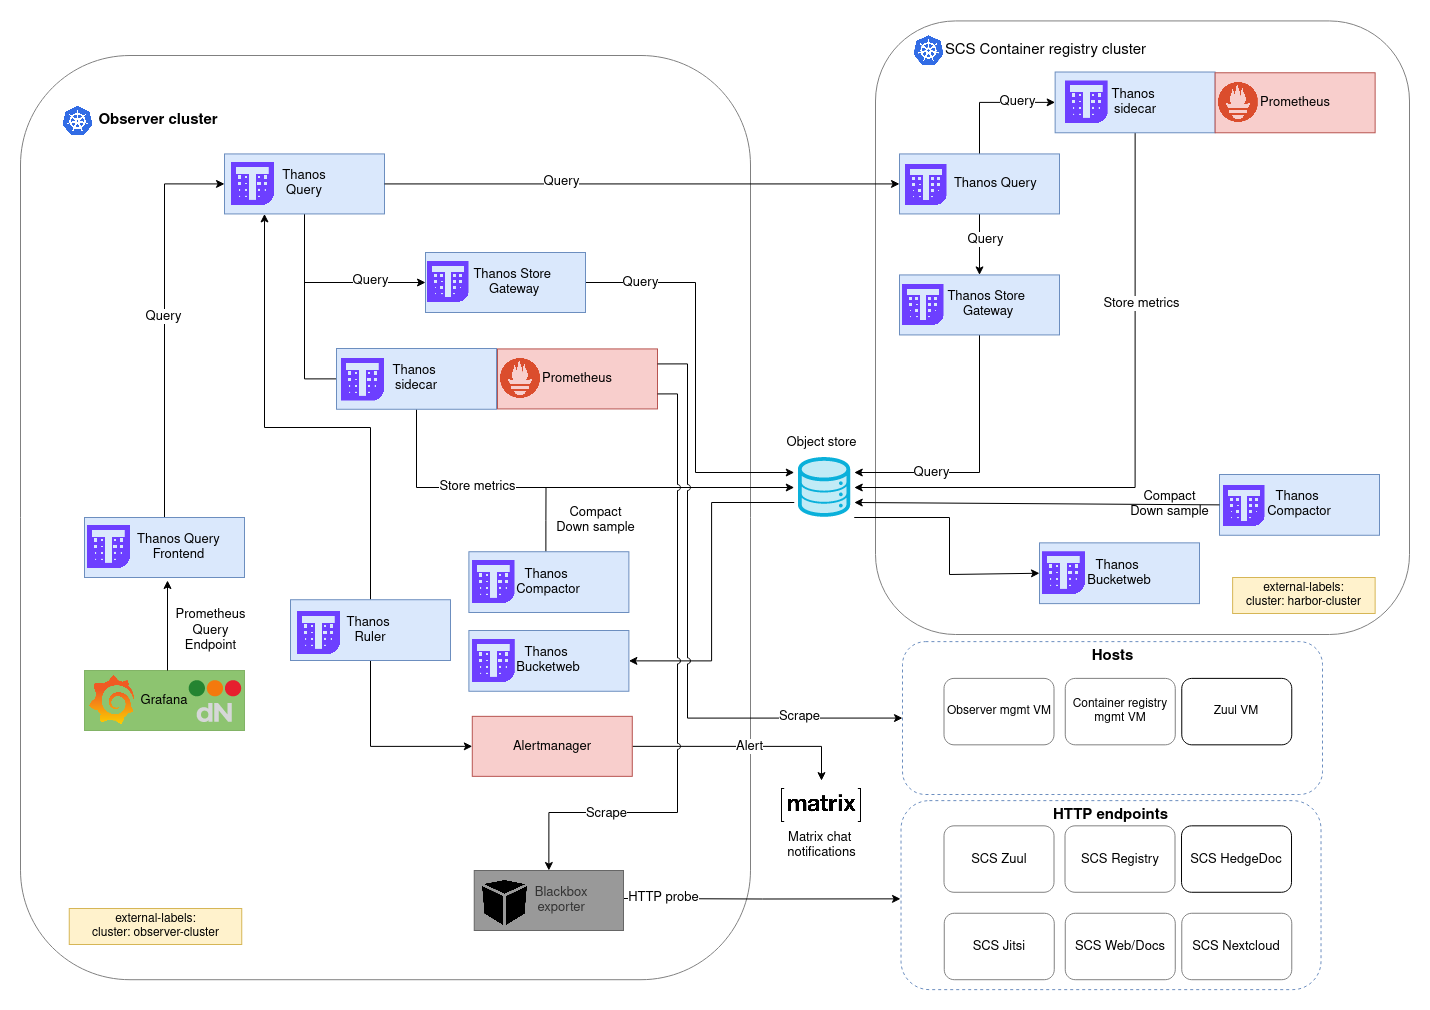
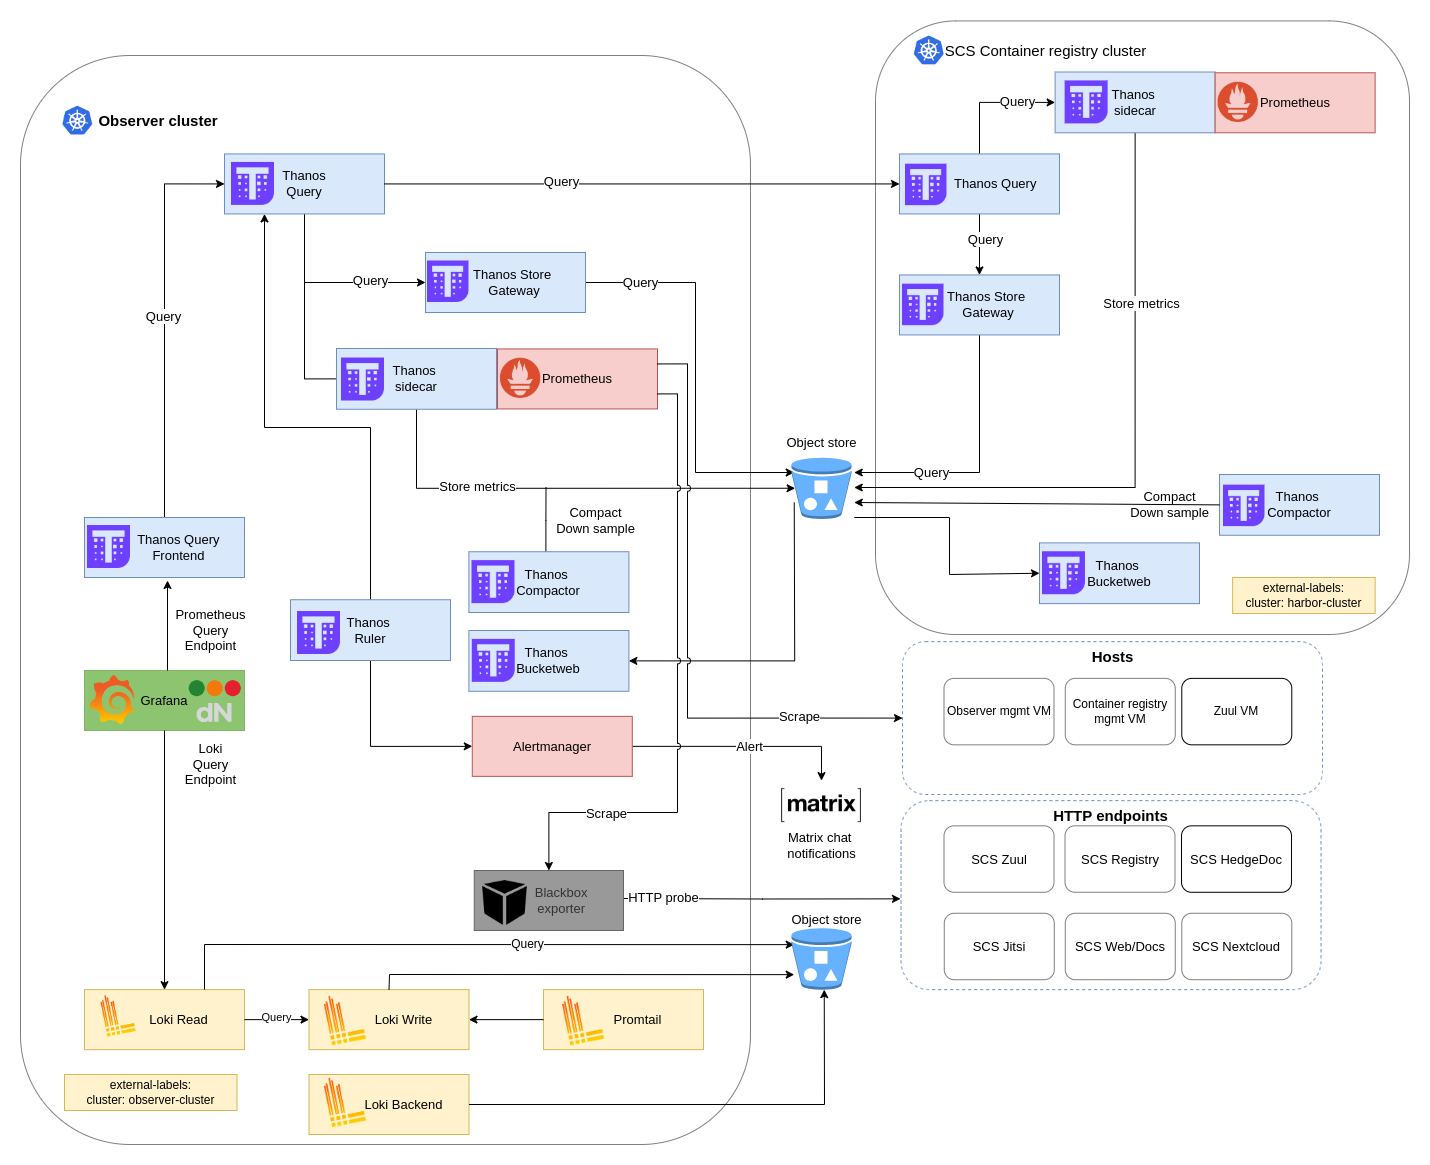
Enable Loki in the SCS Observer

diff --git a/docs/scs-deployment.md b/docs/scs-deployment.md
@@ -9,6 +9,10 @@ Currently, the detailed architecture diagram can be visualized as follows:
 
 ![monitoring_scs_detailed.png](./images/monitoring_scs_detailed.png)
 
+The SCS Observer includes the [Loki](https://grafana.com/oss/loki/) deployment along with the [Promtail](https://grafana.com/docs/loki/latest/send-data/promtail/)
+agent on each Observer node. This setup ensures that the SCS Observer platform collects logs from itself and can also
+serve as a global, horizontally scalable, highly available, multi-tenant log aggregation system.
+
 ## Prerequisites
 
 - Kubernetes cluster
@@ -35,7 +39,8 @@ Currently, the detailed architecture diagram can be visualized as follows:
 - Deploy the OAUTH related manifest according to the instructions provided on [this](./oauth.md) documentation page.
 
 - Review the `values-observer-scs.yaml` file and locate all instances of the placeholder text "replace-me".
-  These values relate to configuring access to the object store as well as the Grafana admin password.
+  These values relate to configuring access to the object stores (for Thanos and Loki), the Grafana admin password and
+  Loki API basic auth username and password.
 
 - Finally, install the monitoring stack using values that incorporate all the configurations mentioned above
 ```bash
